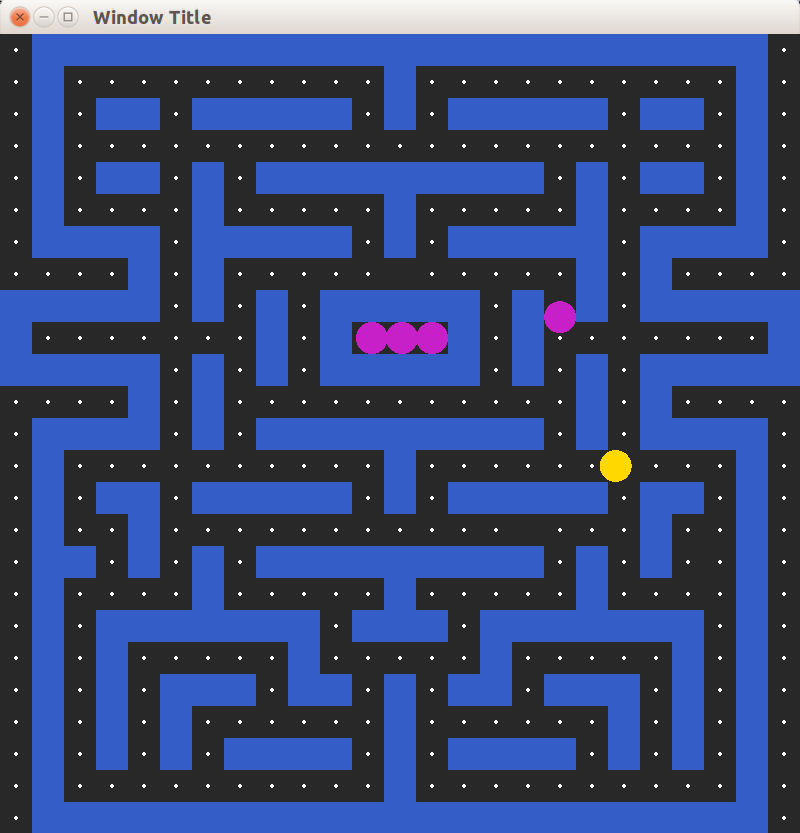
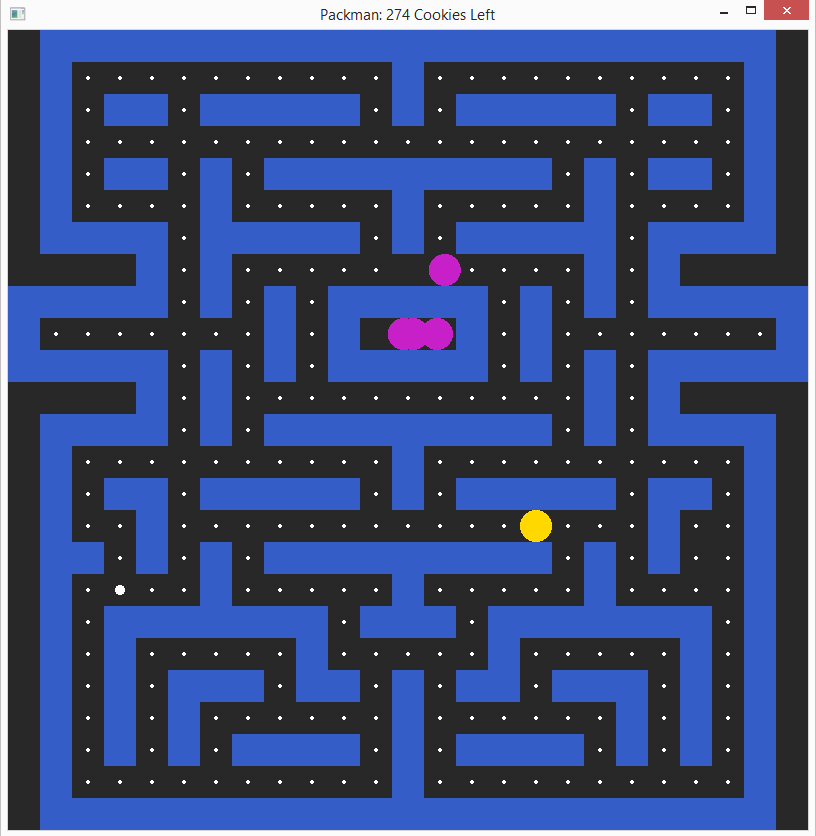
Доработана статья к примеру №6

Changed region(s): [[0.0, 0.0, 1.0, 1.0], [0.4688, 0.1248, 0.5312, 0.1561]]

diff --git a/_packman/6.md b/_packman/6.md
@@ -110,3 +110,137 @@ unsigned eatAllCookiesInBounds(Field &field, const sf::FloatRect &bounds)
     return cookiesCount;
 }
 ```
+
+## Определение состояния победы
+
+В оригинальной игре победа наступает, когда пакман съедает всё печенье (включая суперпеченье). Определить данную ситуацию можно разными способами. Мы будем вычитать из общего количества печенья количество, съеденное пакманом. Для определения общего количество печенья на поле опишем функцию, которая производит подсчёт с помощью цикла:
+
+```cpp
+unsigned countRemainingCookies(const Field &field)
+{
+    unsigned result = 0;
+    for (size_t offset = 0; offset < field.width * field.height; offset++)
+    {
+        const Cell &cell = field.cells[offset];
+        switch (cell.category)
+        {
+        case CellCategory::COOKIE:
+        case CellCategory::SUPERCOOKIE:
+            ++result;
+            break;
+        default:
+            break;
+        }
+    }
+
+    return result;
+}
+```
+
+Для хранения изначального количества заведём в структуре GameScene новое поле. Также заведём перечислимый тип GameState для хранения состояния игры:
+
+```cpp
+enum struct GameState
+{
+    Playing,
+    PlayerWon,
+};
+
+struct GameScene
+{
+    Field field;
+    Packman packman;
+    Ghost blinky;
+    Ghost pinky;
+    Ghost inky;
+    Ghost clyde;
+    unsigned totalCookieCount;
+    GameState state;
+};
+
+void initializeGameScene(GameScene &scene)
+{
+    // ...
+    scene.totalCookieCount = countRemainingCookies(scene.field);
+    scene.state = GameState::Playing;
+}
+```
+
+В методе updateGameScene добавим две проверки:
+
+- первая отвечает за обновление сцены только в игровом состоянии GameState::Playing
+- вторая переводит сцену в состояние GameState::PlayerWon
+
+```cpp
+static unsigned getRemainingCookies(const GameScene &scene)
+{
+    return scene.totalCookieCount - scene.packman.eatenCookies;
+}
+
+void updateGameScene(GameScene &scene, float elapsedTime)
+{
+    if (scene.state == GameState::Playing)
+    {
+        updatePackman(scene.packman, elapsedTime, scene.field);
+        updateGhost(scene.blinky, elapsedTime, scene.field);
+        updateGhost(scene.pinky, elapsedTime, scene.field);
+        updateGhost(scene.inky, elapsedTime, scene.field);
+        updateGhost(scene.clyde, elapsedTime, scene.field);
+
+        // Проверяем наступление победы.
+        if (getRemainingCookies(scene) == 0)
+        {
+            scene.state = GameState::PlayerWon;
+        }
+    }
+}
+```
+
+## Обновление заголовка окна
+
+Чтобы обеспечить пользователю актуальную информацию, мы воспользуемся возможностью смены заголовка окна. Для получения актуального заголовка опишем новую функцию:
+
+```cpp
+std::string getGameSceneWindowTitle(const GameScene &scene)
+{
+    std::string title;
+    if (scene.state == GameState::Playing)
+    {
+        unsigned cookiesLeft = getRemainingCookies(scene);
+        title = "Packman: " + std::to_string(cookiesLeft) + " Cookies Left";
+    }
+    else
+    {
+        title = "Packman: Congratulations, You Won!";
+    }
+    return title;
+}
+```
+
+Для установки заголовка модифицируем функцию main. Заголовок будет меняться на каждом кадре &mdash; возможно, это и не самое эффективное решение, но рисование поля всё равно будет дороже смены заголовка, поэтому мы не станем сравнивать новый заголовок со старым и будем просто вызывать `window.setTitle()` на каждом кадре:
+
+```cpp
+int main(int, char *[])
+{
+    sf::RenderWindow window(sf::VideoMode(800, 800), "Packman");
+    sf::Clock clock;
+    GameScene scene;
+    initializeGameScene(scene);
+
+    while (window.isOpen())
+    {
+        handleEvents(window);
+        update(clock, scene);
+        window.setTitle(getGameSceneWindowTitle(scene));
+        render(window, scene);
+    }
+
+    return 0;
+}
+```
+
+## Результат
+
+Напоминаем, что пример к статье [доступен на github](https://github.com/ps-group/sfml-packman/tree/master/packman_6)
+
+![скриншот](img/preview_packman_6.png)
